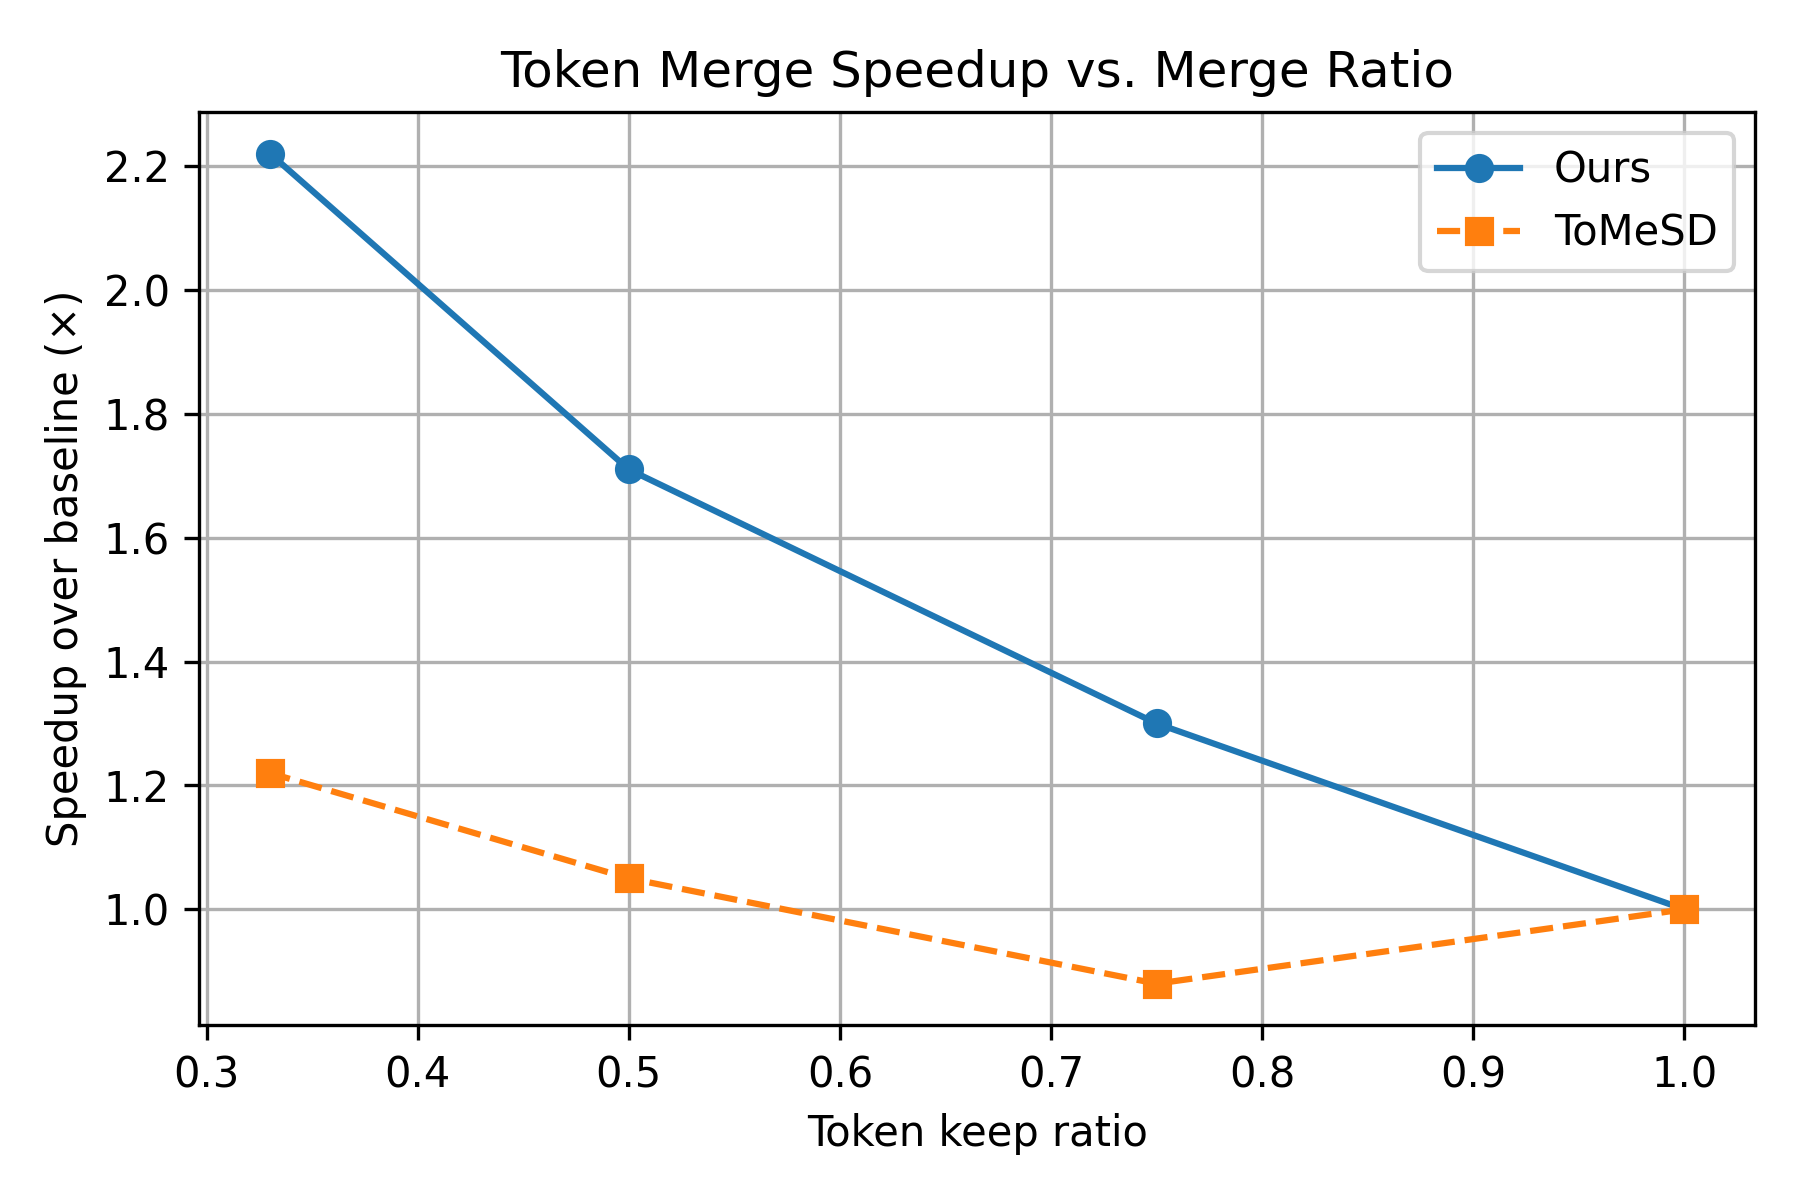
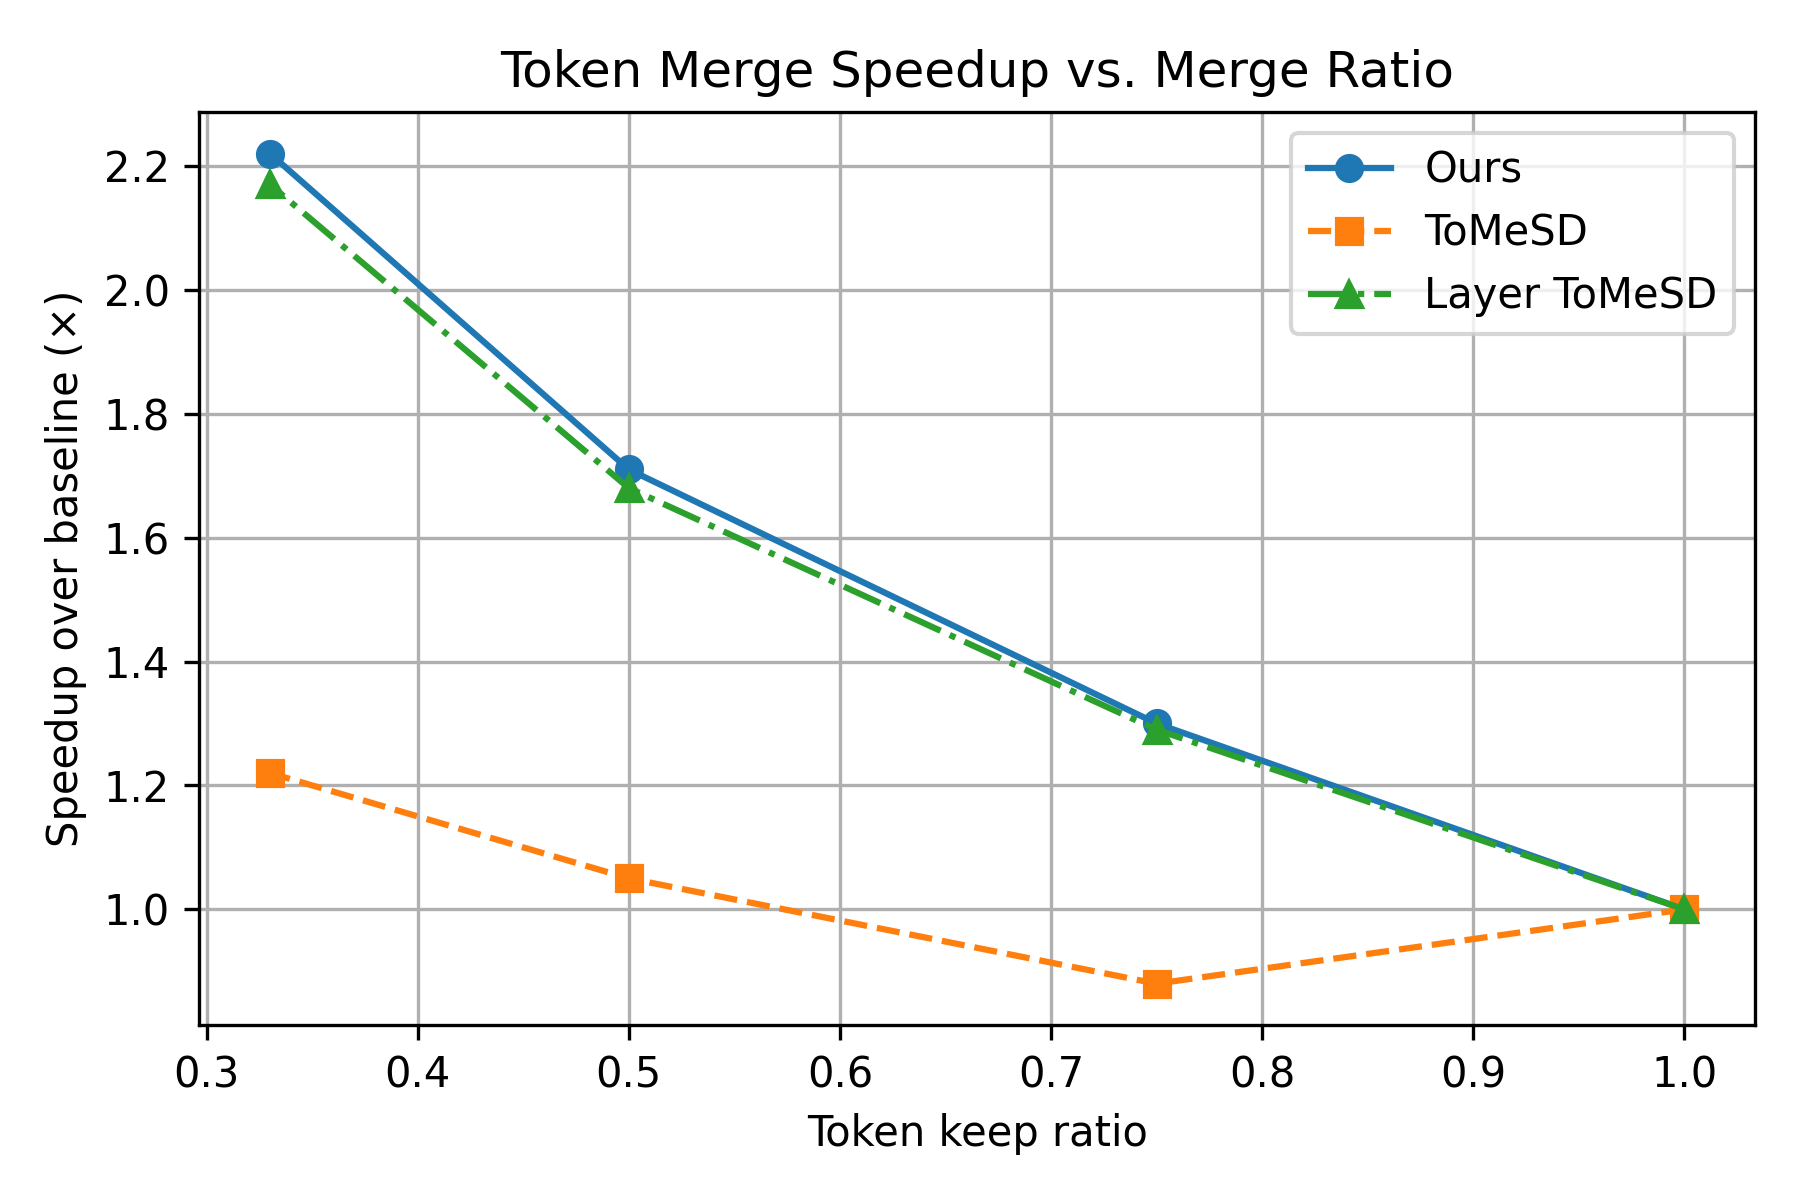
更新了chart制作

diff --git a/chart.py b/chart.py
@@ -11,11 +11,13 @@ ours_speedup = np.array([1.00, 1.30, 1.71, 2.22])
 
 # ToMeSD 方法（从表中读的相対速度）
 tomesd_speedup = np.array([1.00, 0.88, 1.05, 1.22])
+layer_tomesd = np.array([1.00, 1.29, 1.68, 2.17])
 
 plt.figure(figsize=(6, 4))
 
 plt.plot(keep_ratio, ours_speedup, marker='o', linestyle='-', label='Ours')
 plt.plot(keep_ratio, tomesd_speedup, marker='s', linestyle='--', label='ToMeSD')
+plt.plot(keep_ratio, layer_tomesd, marker='^', linestyle='-.', label='Layer ToMeSD')
 
 plt.xlabel('Token keep ratio')
 plt.ylabel('Speedup over baseline (×)')
